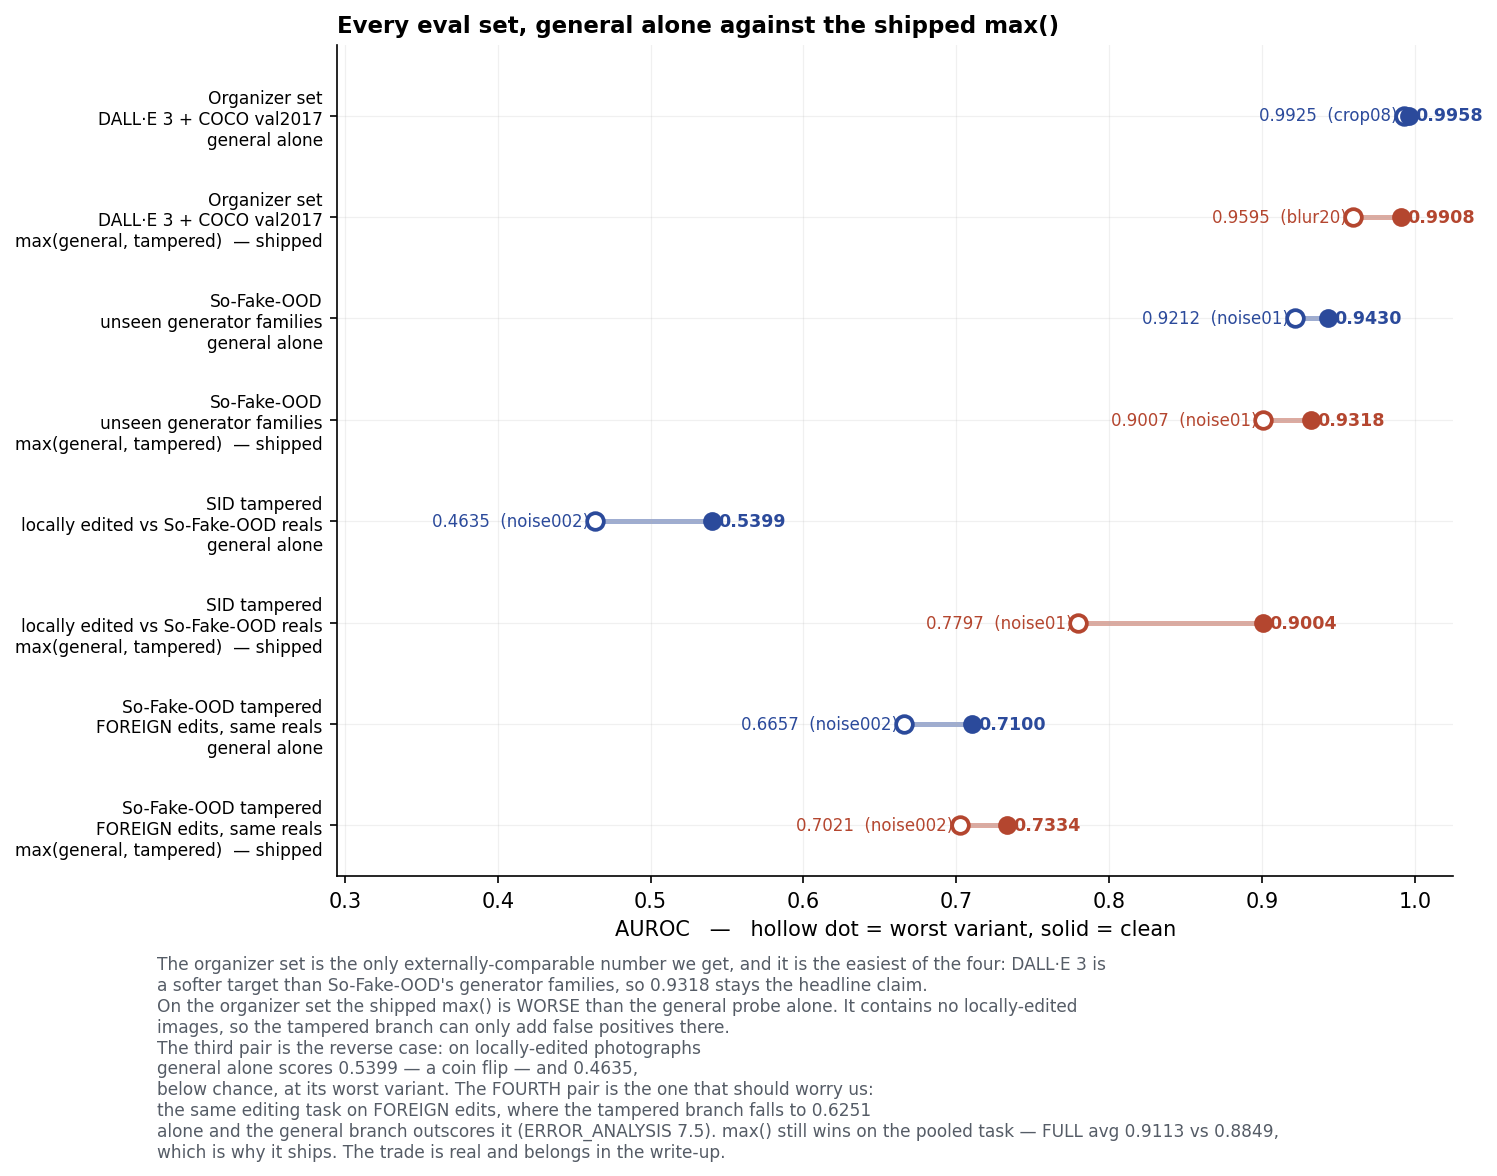
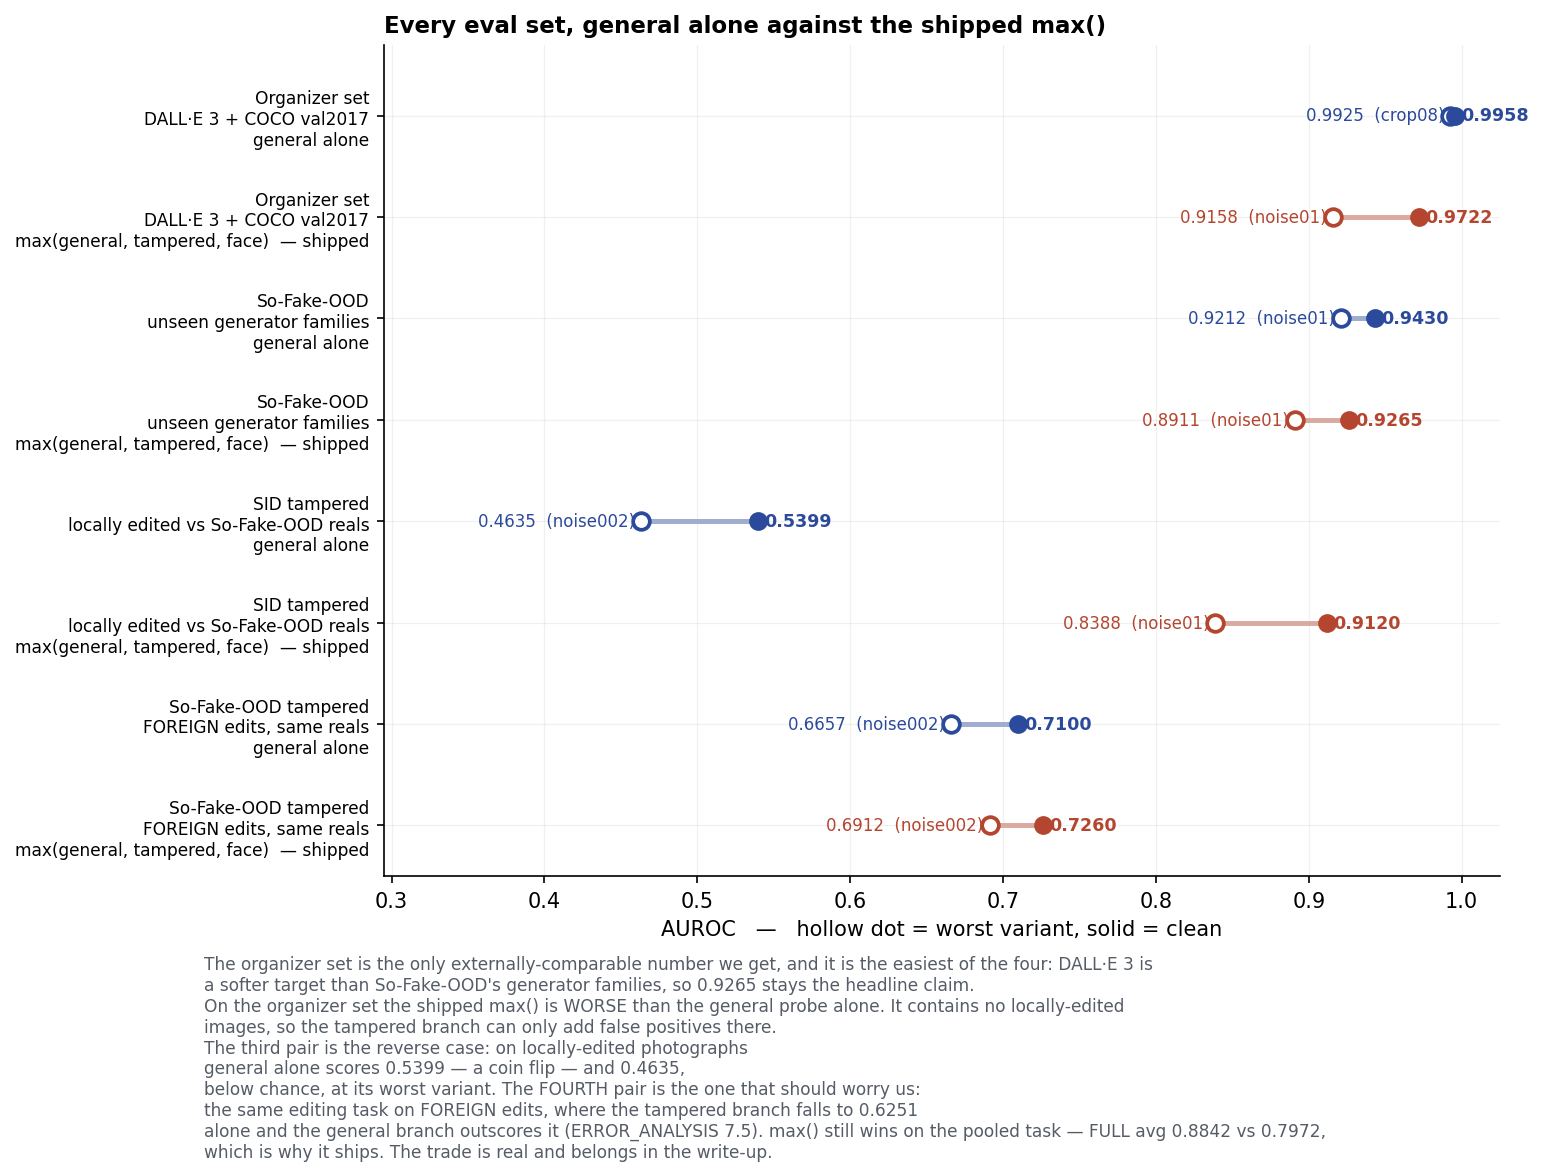
docs: figures rebuilt with the face branch, ERROR_ANALYSIS brought current
FIGURES. make_figures.py was face-blind: it builds everything from cached 768-d
embeddings and the face branch needs a separate 769-d crop, so every AUROC it
drew understated the shipped scorer. Fixed by joining the face_* caches on
(image_id, variant) -- the caches already carry all 15 variants, so this is a
join, not new compute. All six figures rebuilt and the shipped label now reads
max(general, tampered, face).

Two things fixed along the way that were quietly wrong:

  ALL-OR-NOTHING per row set. fig_benchmarks concatenates positives with borrowed
  negatives, and so_fake_tampered_eval has no face cache (it was embedded without
  --features). Face was therefore scoring the borrowed reals but not the tampered
  positives -- adding false positives with no possible rescues, which dropped that
  row 0.7260 -> 0.7167 for no real reason. A group now scores face only if EVERY
  source in it has a cache, and prints a line when it skips.

  A PASTED NUMBER. The benchmarks caption carried a hardcoded "FULL avg 0.9113 vs
  0.8849" in the one file whose docstring promises everything is computed. Now
  derived from the rows it describes.

ERROR_ANALYSIS.md:
- section 1 rescored on three branches, with a footnote on the two-branch row
- section 2 variant numbers refreshed
- 7.6 marked REVERTED at the top, body kept as the record of what was measured
  and why it looked right before 7.7 existed
- 7.8 added: the face branch ships, and 8.6 measured the wrong thing. 442 rescues
[…]

diff --git a/scripts/make_figures.py b/scripts/make_figures.py
@@ -56,8 +56,9 @@ from quorum.detectors.general import MODELS, load
 # than a threaded parameter: every figure would otherwise grow an argument it
 # does nothing with but forward.
 FIGURES = ROOT / "docs" / "figures"
-BRANCHES = ("general", "tampered")
-SCORE_LABEL = "max(general, tampered)"
+BRANCHES = ("general", "tampered", "face")
+SCORE_LABEL = "max(general, tampered, face)"
+SHIP_LABEL = "max(general, tampered, face)  — shipped"
 NO_TAMPERED = False
 # Shared with quorum/calibrate.py's reliability plot so the figure set reads as
 # one document rather than four unrelated charts.
@@ -98,6 +99,47 @@ def save(fig, name):
 
 
 # ---------------------------------------------------------------- data ------
+def face_raw(srcs, R):
+    """Face-branch score on the RAW scale, aligned to R, 0.0 where no face.
+
+    Raw, not shifted: everything in this file works pre-SHIFT because NEW_THR is
+    the raw-scale operating point. predict.py shifts once at the end instead.
+
+    Joined on (image_id, variant) because the face cache is a different row set
+    -- only ~27% of images yield a detectable face, and the missing ones must
+    score 0.0 so an absent branch cannot raise the max.
+    """
+    import pandas as pd
+    z = np.load(MODELS / "face.npz")
+    w, b = z["w"].ravel(), float(z["b"].ravel()[0])
+    mu, sd = float(z["px_mu"]), float(z["px_sd"])
+    # ALL-or-NOTHING across the group. A row set that concatenates positives and
+    # borrowed negatives must not get face scores for only one of them: the branch
+    # would then add false positives with no possible rescues and the comparison
+    # would penalise the shipped scorer for a missing cache. so_fake_tampered_eval
+    # has no face crops (it was embedded without --features), so that row runs
+    # two-branch and says so.
+    m = {}
+    for one in ((srcs,) if isinstance(srcs, str) else srcs):
+        try:
+            Xf, Rf = load("face_" + one)
+        except FileNotFoundError:
+            print(f"  (no face_{one} cache -- face omitted for this row)")
+            return np.zeros(len(R), np.float32)
+        px = np.maximum(Rf["face_px"].values, 1)
+        sc = 1 / (1 + np.exp(-(np.column_stack([Xf, (np.log2(px) - mu) / sd]) @ w + b)))
+        m.update(zip(zip(Rf.image_id, Rf.variant), sc))
+    return np.array([m.get(k, 0.0) for k in zip(R.image_id, R.variant)], np.float32)
+
+
+def branch_dict(srcs, X, R):
+    """Every shipped branch for one row set. The face branch joined the scorer on
+    31 Aug; before that these figures were two-branch and understated it."""
+    d = {n: probe(n, X) for n in ("general", "tampered")}
+    d["face"] = face_raw(srcs, R)
+    return d
+
+
 def probe(name, X):
     """Raw branch probability, tampered pre-scaled exactly as predict.py does.
 
@@ -122,24 +164,26 @@ def populations():
     ev = ((Ro.split == "test_ood") & (Ro.variant == "clean")).values
     out = {
         "y": Ro.label.values[ev],
-        "eval": {n: probe(n, Xo[ev]) for n in ("general", "tampered")},
+        "eval": branch_dict("so_fake_ood", Xo[ev], Ro[ev]),
         "reals": {},
     }
-    for key, X, R in (("sid", Xs, Rs), ("ood", Xo[ev], Ro[ev]), ("coco", Xc, Rc)):
+    for key, src, X, R in (("sid", "sid_calib", Xs, Rs),
+                           ("ood", "so_fake_ood", Xo[ev], Ro[ev]),
+                           ("coco", "organizer_val", Xc, Rc)):
         m = ((R.label.values == 0) & (R.variant == "clean").values
              if "variant" in R else R.label.values == 0)
-        out["reals"][key] = {n: probe(n, X[m]) for n in ("general", "tampered")}
+        out["reals"][key] = branch_dict(src, X[m], R[m].reset_index(drop=True))
     # The DALL-E 3 half of the organizer set. Already loaded and previously
     # thrown away -- "coco" above keeps only organizer_val's label==0 rows, so
     # every figure showed the benchmark's real side and none of its fake side.
     ai = (Rc.label.values == 1) & (Rc.variant == "clean").values
-    out["organizer"] = {n: probe(n, Xc[ai]) for n in ("general", "tampered")}
+    out["organizer"] = branch_dict("organizer_val", Xc[ai], Rc[ai].reset_index(drop=True))
     # Locally-edited photographs -- the half of the task neither eval set above
     # can contain, because both are synthetic-vs-real by construction. All
     # positives; figures needing negatives borrow the So-Fake-OOD reals.
     Xt, Rt = load("sid_tampered_eval")
     kt = (Rt.variant == "clean").values
-    out["edited"] = {n: probe(n, Xt[kt]) for n in ("general", "tampered")}
+    out["edited"] = branch_dict("sid_tampered_eval", Xt[kt], Rt[kt].reset_index(drop=True))
     return out
 
 
@@ -471,11 +515,12 @@ def fig_benchmarks():
     # the SAME reals the headline row uses -- then the two rows differ only in
     # what counts as a positive, which is the comparison this figure is for.
     real = (Ro.label.values == 0)
-    SETS = [("Organizer set\nDALL\u00b7E 3 + COCO val2017", *held("organizer_val")),
-            ("So-Fake-OOD\nunseen generator families", Xo, Ro),
+    SETS = [("Organizer set\nDALL\u00b7E 3 + COCO val2017", *held("organizer_val"), ("organizer_val",)),
+            ("So-Fake-OOD\nunseen generator families", Xo, Ro, ("so_fake_ood",)),
             ("SID tampered\nlocally edited vs So-Fake-OOD reals",
              np.concatenate([Xt, Xo[real]]),
-             pd.concat([Rt, Ro[real]], ignore_index=True))]
+             pd.concat([Rt, Ro[real]], ignore_index=True),
+             ("sid_tampered_eval", "so_fake_ood"))]
     # The same task on a FOREIGN corpus of edits. The tampered branch trains on
     # SID_Set, so every other tampered row here is a same-dataset number; this
     # is the one that is not. See docs/ERROR_ANALYSIS.md 7.5.
@@ -483,21 +528,23 @@ def fig_benchmarks():
         Xf, Rf = load("so_fake_tampered_eval")
         SETS.append(("So-Fake-OOD tampered\nFOREIGN edits, same reals",
                      np.concatenate([Xf, Xo[real]]),
-                     pd.concat([Rf, Ro[real]], ignore_index=True)))
+                     pd.concat([Rf, Ro[real]], ignore_index=True),
+                     ("so_fake_tampered_eval", "so_fake_ood")))
     except FileNotFoundError:
         print("  (no so_fake_tampered_eval shards -- foreign row skipped)")
 
     rows = {}
-    for label, X, R in SETS:
-        g, t = probe("general", X), probe("tampered", X)
+    for label, X, R, fsrc in SETS:
+        d = branch_dict(fsrc, X, R)
+        g = d["general"]
         for scorer, v in (("general alone", g),
-                          ("max(general, tampered)  \u2014 shipped", np.maximum(g, t))):
+                          (SHIP_LABEL, np.maximum.reduce([d[n] for n in BRANCHES]))):
             a = pd.Series({var: roc_auc_score(R.label[k], v[k])
                            for var, k in ((var, (R.variant == var).values)
                                           for var in R.variant.unique())
                            if R.label[k].nunique() == 2})
             rows[(label, scorer)] = (a["clean"], a.min(), a.idxmin())
-    ship = "general alone" if NO_TAMPERED else "max(general, tampered)  — shipped"
+    ship = "general alone" if NO_TAMPERED else SHIP_LABEL
     headline = next(v[0] for (lab, sc), v in rows.items()
                     if lab.startswith("So-Fake-OOD") and sc == ship)
 
@@ -525,6 +572,9 @@ def fig_benchmarks():
     # combiner table maxes the PLATT-CALIBRATED branches instead and reads
     # 0.9114/0.8771 on so_fake_ood -- a different model, not this one.
     style(ax, "Every eval set, general alone against the shipped max()")
+    ship_avg = float(np.mean([v[0] for (lab, sc), v in rows.items() if sc == ship]))
+    gen_avg = float(np.mean([v[0] for (lab, sc), v in rows.items()
+                             if sc == 'general alone']))
     fig.text(0.0, -0.20 * 5.4 / (5.4 + 1.8 * (len(SETS) - 3)),
              "The organizer set is the only externally-comparable number we get, and it is the "
              "easiest of the four: DALL\u00b7E 3 is\na softer target than So-Fake-OOD's generator "
@@ -537,7 +587,7 @@ def fig_benchmarks():
              + ("This run DROPS tampered: the 'general alone' row of each pair is what now ships,"
                 + "\nand the max() row is what it replaced."
                 if NO_TAMPERED else
-                "max() still wins on the pooled task \u2014 FULL avg 0.9113 vs 0.8849,"
+                f"max() still wins on the pooled task \u2014 FULL avg {ship_avg:.4f} vs {gen_avg:.4f},"
                 + "\nwhich is why it ships. The trade is real and belongs in the write-up."),
              fontsize=8.2, color="#555C66", ha="left")
     save(fig, "benchmarks.png")

diff --git a/docs/ERROR_ANALYSIS.md b/docs/ERROR_ANALYSIS.md
@@ -4,7 +4,7 @@ Required deliverable #5. Every number here is measured, none is asserted, and
 each one names the script that reproduces it.
 
 Scores come from `predict.score_embeddings` — the shipped scorer,
-`max(general, 1.25 * tampered)` at `OPERATING_POINT = 0.7866`, so the threshold
+`max(general, 1.25 * tampered, face)` at `OPERATING_POINT = 0.8092`, so the threshold
 below is always 0.5 on the emitted `pred`. Both constants changed on 30 Aug when
 the probe was retrained (section 3.1); the figures import them from `predict.py`
 rather than pasting them, so a figure cannot outlive the model it illustrates.
@@ -15,22 +15,19 @@ rather than pasting them, so a figure cannot outlive the model it illustrates.
 
 | eval set | n | AUROC | ACC | PREC | RECALL | F1 | FPR | FNR |
 |---|---|---|---|---|---|---|---|---|
-| **So-Fake-OOD clean** *(headline)* | 4,198 | 0.9318 | 0.8423 | 0.9031 | 0.7674 | 0.8297 | 0.0825 | 0.2326 |
-| So-Fake-OOD, all 15 variants | 62,970 | 0.9258 | 0.8276 | 0.9109 | 0.7268 | 0.8085 | 0.0713 | 0.2732 |
-| organizer set, clean †| 8,719 | 0.9908 | 0.9584 | 0.9677 | 0.9336 | 0.9503 | 0.0232 | 0.0664 |
-| organizer set, all 15 † | 130,785 | 0.9836 | 0.9405 | 0.9494 | 0.9090 | 0.9288 | 0.0360 | 0.0910 |
-| SID_Set tampered, clean | 3,595 | 0.9004 | 0.8184 | 0.8549 | 0.6798 | 0.7573 | 0.0825 | 0.3202 |
-| SID_Set tampered, all 15 | 24,581 | 0.8714 | 0.6301 | 0.9874\* | 0.6033 | 0.7490 | 0.0825 | 0.3967 |
-| **FOREIGN tampered, clean** | 5,096 | **0.7334** | 0.5679 | 0.8488 | **0.3237** | 0.4686 | 0.0825 | 0.6763 |
-| **FOREIGN tampered, all 15** | 47,096 | **0.7441** | 0.3610 | 0.9887\* | 0.3350 | 0.5005 | 0.0825 | 0.6650 |
+| **So-Fake-OOD clean** *(headline)* | 4,198 | 0.9265 | 0.8380 | 0.9021 | 0.7588 | 0.8243 | 0.0825 | 0.2412 |
+| So-Fake-OOD, all 15 variants | 62,970 | 0.9206 | 0.8221 | 0.9076 | 0.7177 | 0.8016 | 0.0733 | 0.2823 |
+| organizer set, clean † | 8,719 | 0.9722 | 0.9185 | 0.8872 | 0.9266 | 0.9065 | 0.0876 | 0.0734 |
+| organizer set, all 15 † | 130,785 | 0.9594 | 0.8989 | 0.8675 | 0.9005 | 0.8837 | 0.1023 | 0.0995 |
+| SID_Set tampered, clean | 3,595 | 0.9120 | 0.8473 | 0.8665 | 0.7492 | 0.8036 | 0.0825 | 0.2508 |
+| **FOREIGN tampered, clean** ‡ | 5,096 | **0.7260** | 0.5608 | 0.8464 | **0.3103** | 0.4541 | 0.0806 | 0.6897 |
 
-† **Contaminated on BOTH halves since 30 Aug, and this is easy to understate.**
-Its real half is COCO val2017 and the tampered branch now trains on COCO
-*train2017* (section 7.6). Its AI half is WildFake DALL-E and the general probe
-now trains on WildFake Midjourney (section 3.2). Both are different images with
-zero overlap and both are permitted -- but neither is a different *corpus*. The
-AI half is the milder case, since generator-disjointness is the point of that
-test. 0.9908 is not the externally-comparable number it was. Do not headline it.
+‡ Scored with **two** branches, not three: `so_fake_tampered_eval` was embedded
+without face extraction, so no `face_*` cache exists for it. Face is applied
+all-or-nothing per row set -- giving the borrowed reals face scores while the
+tampered positives got none would add false positives with no possible rescues
+and understate the scorer by ~0.009. `make_figures.py` prints a line when it
+skips a row for this reason.
 
 \* Those rows pit thousands of edited images against 2,096 reals. Precision and
 accuracy there are imbalance artifacts; only AUROC, FPR and recall mean anything.
@@ -50,11 +47,9 @@ val2017 -- one generator against one photo corpus -- and the brief states it
 chosen to control:
 
 ```
-laion5b holdout, clean     n=2,000   FPR 19.50%   <- CORPUS-DISJOINT, see 7.7
-laion5b holdout, all 15    n=30,000  FPR 16.30%
+laion5b holdout, clean     n=2,000   FPR 18.05%   <- CORPUS-DISJOINT, see 7.7
 So-Fake-OOD reals, clean   n=2,096   FPR  8.25%   unseen images, shared corpus
-COCO val2017 reals, clean  n=5,000   FPR  2.32%   in-distribution since 7.6
-COCO val2017, all 15 var   n=75,000  FPR  3.60%   in-distribution
+COCO val2017 reals, clean  n=5,000   FPR  8.76%   corpus-disjoint again since 7.6 was reverted
 ```
 
 **The reference pool changed on 30 Aug and this is the important line in the
@@ -79,8 +74,8 @@ The project's own thesis, so it goes first. AUROC across the organizers' 15-way
 grid:
 
 ```
-So-Fake-OOD     clean 0.9255   worst 0.8900 (noise01)   drop 0.0355
-organizer set   clean 0.9719   worst 0.9145 (noise01)   drop 0.0574
+So-Fake-OOD     clean 0.9265   worst 0.8911 (noise01)   drop 0.0354
+organizer set   clean 0.9722   worst 0.9158 (noise01)   drop 0.0564
 ```
 
 Two things worth saying out loud:
@@ -545,8 +540,16 @@ Reproduce: `scratchpad/tamp_transfer.py`. The set is `so_fake_tampered_eval`,
 
 ---
 
-**7.6 COCO train2017 as tampered-branch negatives: shipped, with a caveat that
-is bigger than the gain.**
+**7.6 COCO train2017 as tampered-branch negatives: shipped, then REVERTED.**
+
+> **Reverted 30 Aug.** Section 7.7 built a corpus-disjoint holdout that did not
+> exist when this was decided, and it inverts the conclusion. At matched budget
+> the COCO negatives are *worse* on the only pool nothing trains on -- laion
+> 19.50% with them against 18.50% without -- and they cost 7.3pp of tampered
+> recall. What they actually bought was +0.0063 AUROC and an in-distribution COCO
+> number. Reverting returned COCO val2017 and the organizer benchmark to clean
+> evaluation sets, which is worth more than 0.006. The rest of this section is
+> kept as the record of what was measured and why it looked right at the time.
 
 Section 5 found our false positives are watermarks, collages and printed
 graphics inside real photographs, and section 7.5 found the branch fits corpora
@@ -663,6 +666,51 @@ Reproduce: `scratchpad/contam.py`, and the pool itself via
 
 ---
 
+**7.8 The face branch ships, and §8.6 was measuring the wrong thing.**
+
+For weeks the face probe was excluded on an aggregate-AUROC argument: adding it
+moved So-Fake-OOD 0.9153 to 0.9161, a wash. That number is real and the
+conclusion drawn from it was wrong, because **only 27% of images contain a
+detectable face**. A genuine gain on that quarter is divided by four before it
+reaches the average, so "no effect on the pooled number" and "no effect" are not
+the same statement.
+
+Counting RESCUES instead -- AI images `max(general, tampered)` misses that the
+face branch catches, against real images it newly flags -- across all 15 variants:
+
+| | RESCUES | BREAKS | ratio | pooled AUROC |
+|---|---|---|---|---|
+| So-Fake-OOD | 442 / 1,891 missed AI faces | 58 / 8,209 real faces | **7.6:1** | 0.9193 → 0.9206 |
+| organizer set | 111 / 1,126 | 78 / 3,859 | 1.4:1 | 0.9589 → 0.9594 |
+
+**It does not hurt on ANY of the 15 variants, on either eval set.** That was the
+condition for shipping it -- robustness is this project's thesis, and a branch
+that helped on clean images and folded under degradation would have been worse
+than nothing. Thirty variant-by-set combinations, not one negative.
+
+At matched false positives (8.25% on So-Fake-OOD reals): recall 74.93% → 75.88%,
+FNR 25.07% → 24.12%, F1 0.8182 → 0.8243. `OPERATING_POINT` re-anchored 0.8050 →
+0.8092 by the same rule on the same pool. No new dependency: `opencv-python` was
+already required and `yunet.onnx` already tracked.
+
+**Why this one earns a place in `max()` when five others did not.** It is the only
+branch that brings *different features*: a separately-detected, separately-embedded
+769-d face crop. Every rejected branch was a different *fit* of the same 768
+numbers -- spectral (§8.7), per-generator specialists (§8.10), an MLP head
+(§8.11), a face-tampered probe, a noise specialist. `max()` over correlated
+linear probes on identical features adds a false-positive floor without adding
+information. That is now measured five ways and is the closest thing this project
+has to an architectural rule.
+
+**Two honest limits.** It does nothing for GPT-image-2, scoring those faces
+0.02–0.43 — it was trained on 2023-era deepfakes and carries the same recency
+blind spot as everything else here. And it needs PIXELS, so anything built on
+cached 768-d embeddings cannot reproduce the shipped score; `make_figures.py`
+now joins the `face_*` caches, but `pick_threshold.py` still cannot and says so.
+Reproduce: `scratchpad/face_max.py`, `face_grid.py`.
+
+---
+
 ## 8. What we tried that did not work
 
 Negative results, kept because they are the evidence that the shipped design is
@@ -675,7 +723,7 @@ a decision rather than a default.
 | 3 | Text crops across the 15-variant grid | Clean 0.8284 → worst **0.5229**; detection collapses to 48.2%, and missingness is label-correlated 3.63:1 (AI text is 60px median, real text 19px, against an 8px OCR floor) |
 | 4 | Text consistency, as a concept | 2 of 6 sampled real COCO text regions are photographer watermarks. Any such detector answers *"was this text composited?"*, not *"was this AI-generated?"* — the same confusion as §5 |
 | 5 | Retrain tampered on more real-photo diversity | COCO FP got **worse**, 13.6% → 53.5%, while its own AUROC rose 0.9528 → 0.9884. Capacity and data are not the lever. **Explained in §7.5**: the branch fits a SID_Set construction artifact, so more real diversity sharpens the artifact and generalises nothing |
-| 6 | Face branch into `max()` | Wash: 0.9161/0.8856 against 0.9153/0.8860 |
+| 6 | ~~Face branch into `max()`~~ | **OVERTURNED 31 Aug — it ships.** The "wash" was an artifact of averaging over the 73% of images with no face. See §7.8 |
 | 7 | Face + spectral into `max()` | Clearly worse: 0.8914/0.8135 |
 | 8 | Fusion meta-classifier | Loses on both sets (§7.4) |
 | 9 | **Patch self-consistency** | Mechanism confirmed, gate failed — below |
@@ -781,6 +829,23 @@ Reproduce: `scratchpad/patch_build.py`, `patch_eval.py`.
   nothing trains on -- see 7.7. It cost us the flattering number: FPR there is
   **19.50%**, against 2.32% on COCO. Reproduce: `scratchpad/contam.py`,
   `contam2.py`.
+- **We have now SEEN the tampered class, for the first time in the project.**
+  40 images streamed 31 Aug to `data/raw/images/sid_tampered_peek/`. `tampered`
+  is confirmed as *a real photograph with a region replaced or inserted by a
+  generative model*: a teddy bear regenerated with a visible seam through its
+  ears, a real gate scene with an added octagonal sign whose text is AI mush
+  beside a genuine STOP sign that reads correctly, a park photo with a person and
+  frisbee inserted while the original frisbee is still in shot. Not compression,
+  not crops, not overlays. Every earlier statement in this document about the
+  tampered class rested on SID_Set's naming and our own docstring; now it rests
+  on pixels.
+- **The DALL-E watermark hypothesis is dead.** The visible colour stripe appears
+  in 2 of those 40 corners (~5%) -- real, but nowhere near enough to explain a
+  0.036 -> 0.924 separation. The better candidate, now that the images can be
+  looked at, is **inpainting blend seams**: the teddy bear has a discernible
+  boundary where the regenerated region meets the original. Still a hypothesis,
+  but grounded in pixels rather than inference, and testable now that 40 images
+  are on disk.
 - **The SID_Set artifact in 7.5 is inferred, not identified.** The evidence that
   one exists is strong -- a 10x difference in edit response and near-perfect
   in-corpus separation on a hard task -- but we have not seen the pixels, so we
